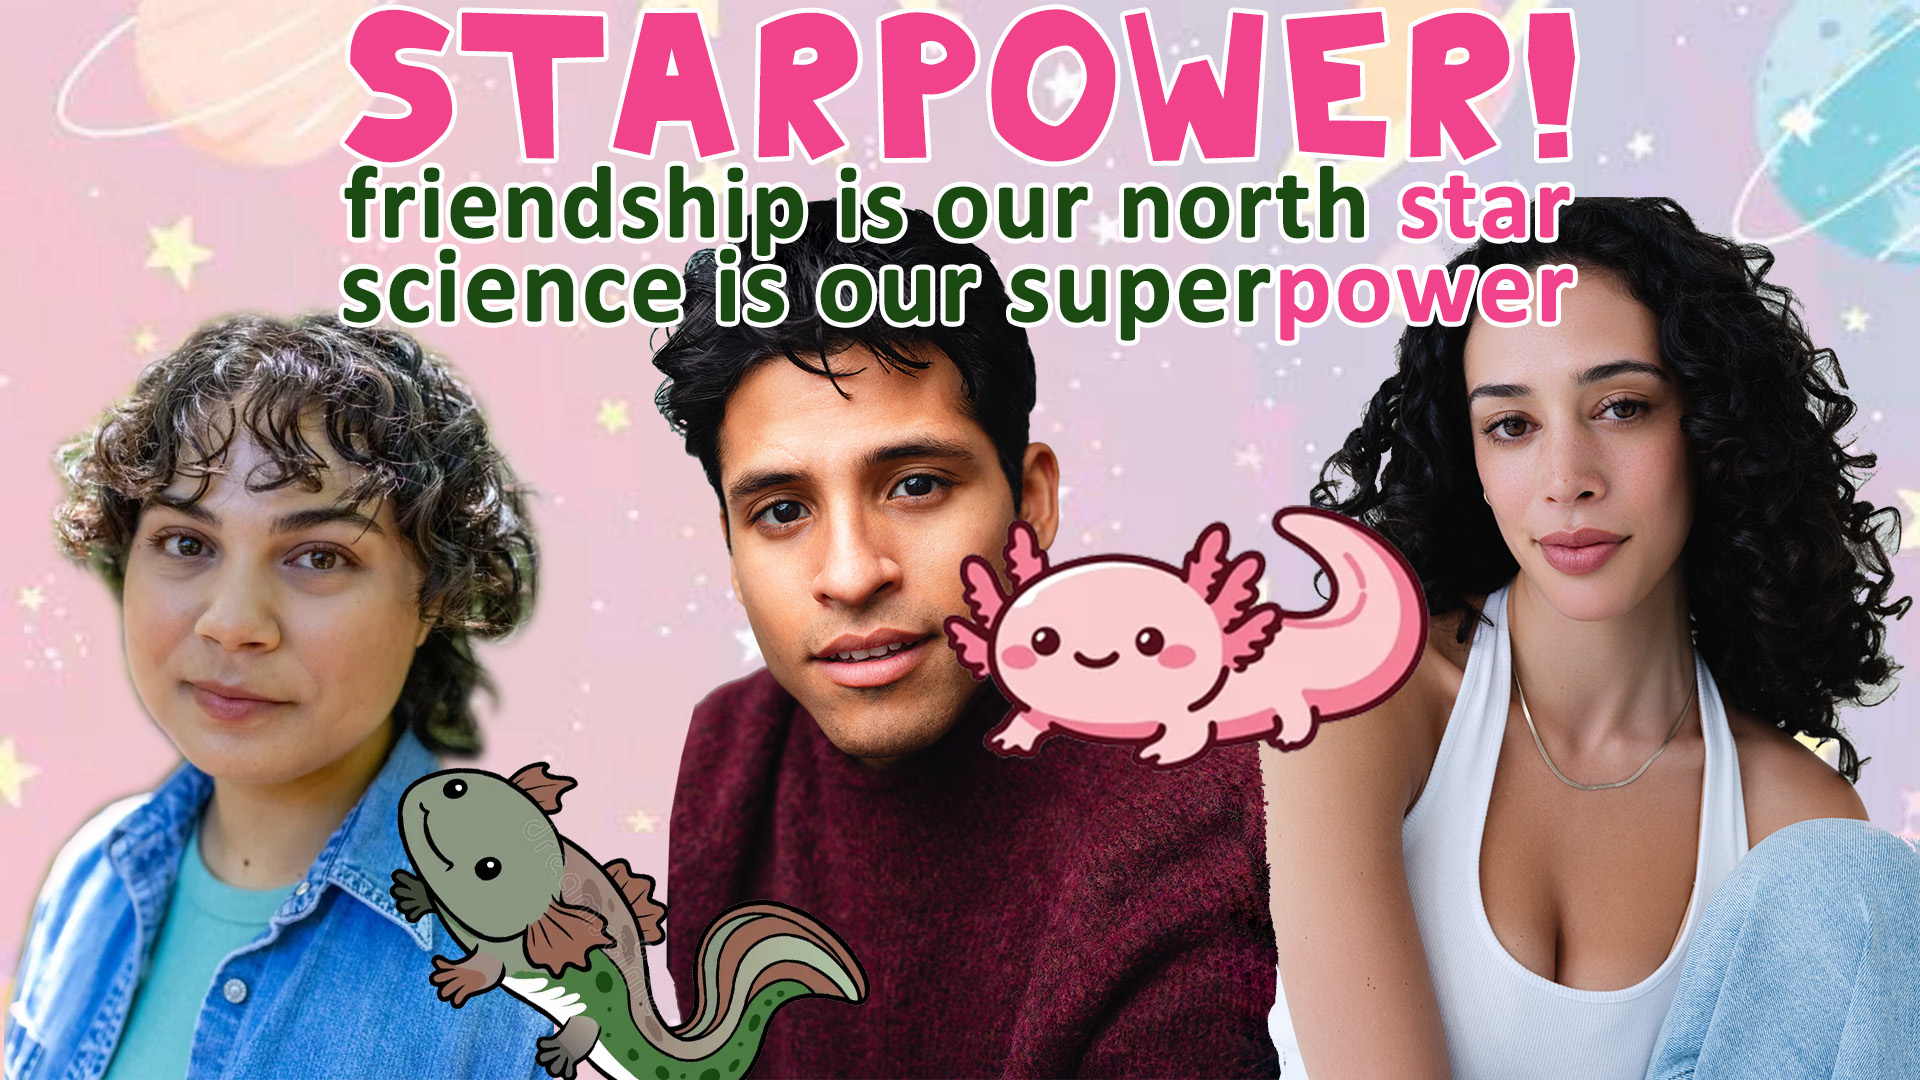
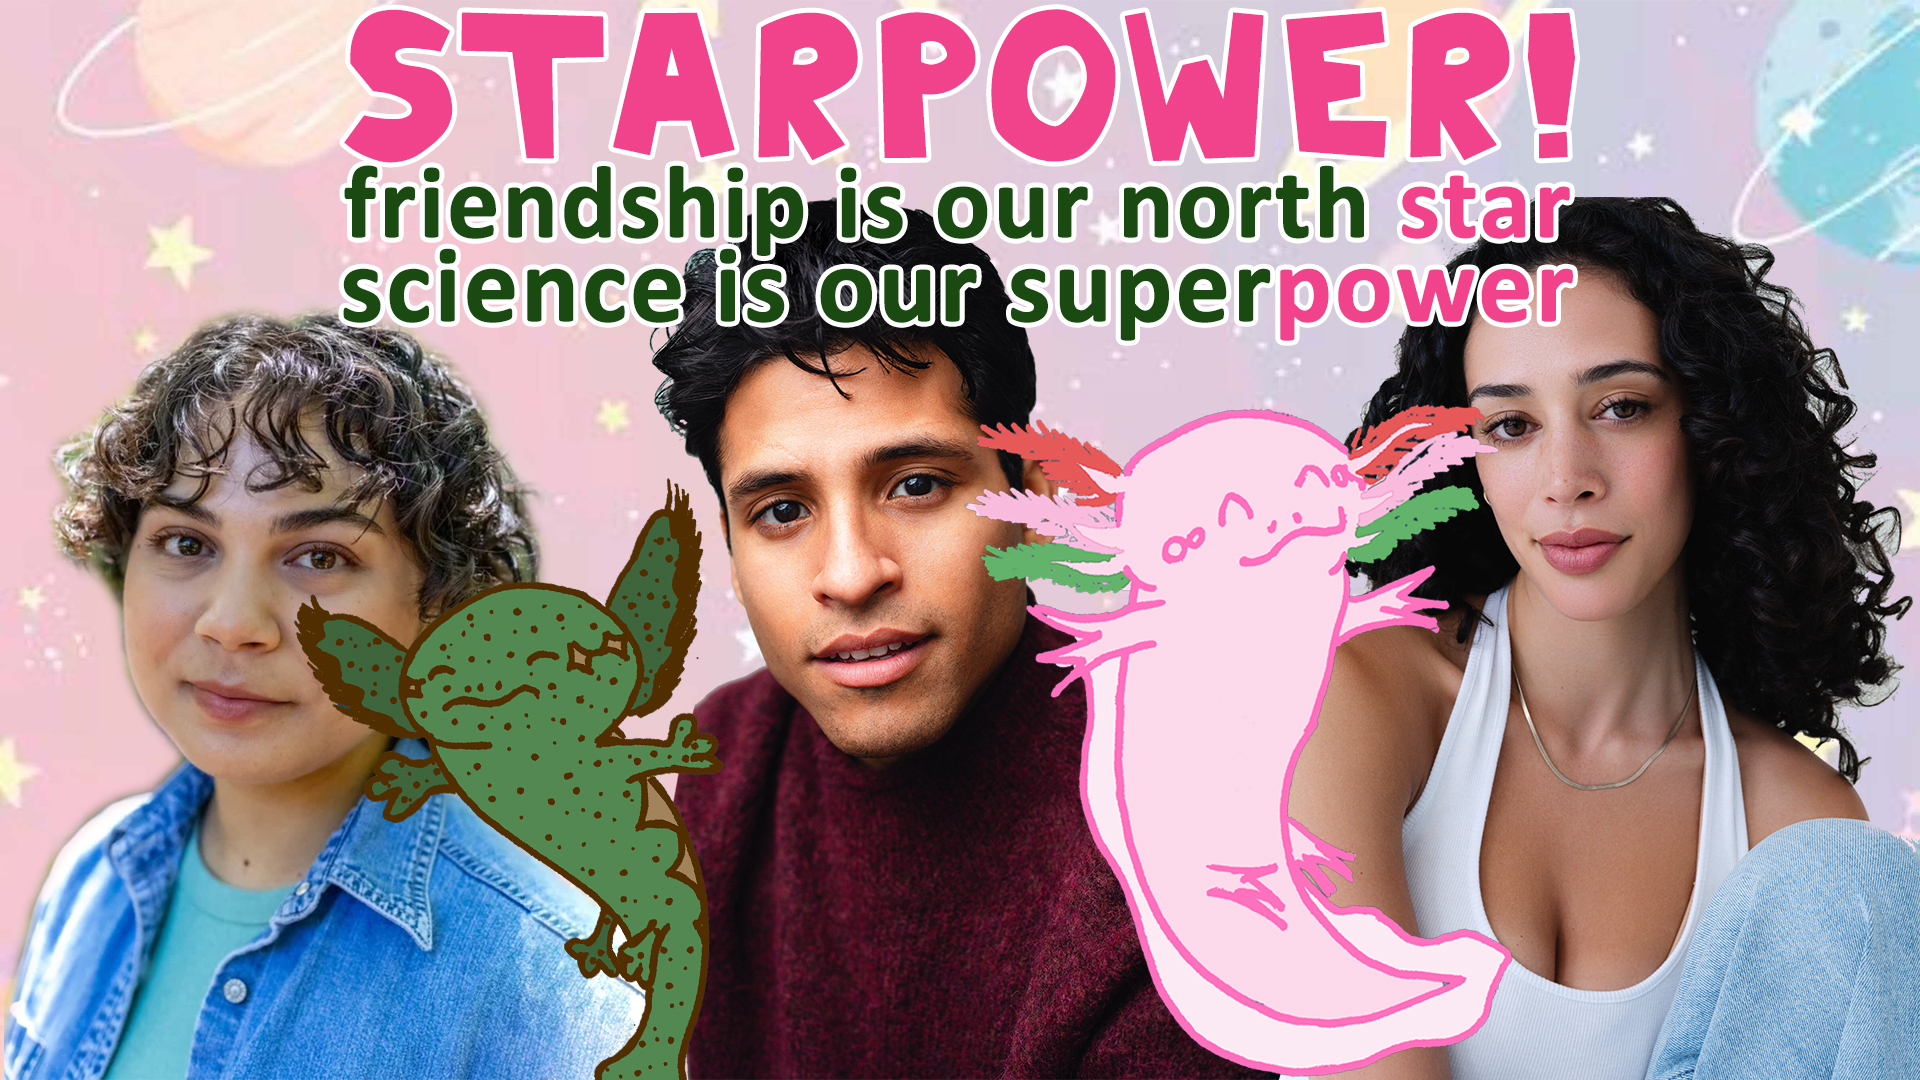
2026-4-19

Changed region(s): [[0.4688, 0.3667, 0.7812, 1.0], [0.1562, 0.4583, 0.4688, 1.0]]

diff --git a/scientists/david-quang-pham/index.html b/scientists/david-quang-pham/index.html
@@ -36,7 +36,6 @@
 <link rel="dns-prefetch" href="//cdn-images.mailchimp.com">
 <link rel="stylesheet" id="wp-block-library-css" href="https://www.science.studio/css/style.min.css" type="text/css" media="all">
 <style id="classic-theme-styles-inline-css" type="text/css">
-/*! This file is auto-generated */
 .wp-block-button__link{color:#fff;background-color:#32373c;border-radius:9999px;box-shadow:none;text-decoration:none;padding:calc(.667em + 2px) calc(1.333em + 2px);font-size:1.125em}.wp-block-file__button{background:#32373c;color:#fff;text-decoration:none}
 </style>
 <style id="global-styles-inline-css" type="text/css">
@@ -138,9 +137,8 @@ function OptanonWrapper() { }
 <li id="menu-item-5539" class="menu-item menu-item-type-post_type menu-item-object-page menu-item-5539"><a href="https://www.science.studio/about/">About</a></li>
 <li id="menu-item-5422" class="menu-item menu-item-type-custom menu-item-object-custom menu-item-5422"><a href="https://shop.science.studio/?utm_source=science.studio&utm_medium=referral&utm_campaign=&utm_content=nav">Shop</a></li>
 </ul></nav>
-                
-                
             </div>
+
 						<div class="header-right">
 							<nav class="social-nav-container"><ul id="menu-social-nav" class="menu"><li id="menu-item-5425" class="icon instagram menu-item menu-item-type-custom menu-item-object-custom menu-item-5425"><a target="_blank" href="https://www.instagram.com/ScienceTheatre/">Instagram</a></li>
 <li id="menu-item-7752" class="icon tiktok menu-item menu-item-type-custom menu-item-object-custom menu-item-7752"><a target="_blank" href="https://www.tiktok.com/@sciencetheatre">Tik Tok</a></li>
@@ -300,7 +298,7 @@ function OptanonWrapper() { }
               <strong>The Galaxy Family 💫</strong>
                                           <ul class="aboutContact-itemTypes">
                                 <li>
-											Singularity, their six kids (HD, Cartwheel, Whirlpool, Triangulum, Andromeda, Milky Way), and their dog Gravity try to save the Universe after the Big Bang.</li>
+											Singularity, their six kids (HD, Cartwheel, Whirlpool, Triangulum, Andromeda, Milky Way), and their dog Gravity try to save the Universe after the Big Bang unravels monsters ready to consume them.</li>
 											  <li>____________________________</li><li></li>
 											<li><b><a href="https://www.thegalaxyfamily.com/" target="_blank">Website</a></b></li>
 												<li>📖<a href="https://www.thegalaxyfamily.com/bible" target="_blank">Story Bible</a></li>
@@ -347,9 +345,9 @@ function OptanonWrapper() { }
               <strong>Photosynthesis 🌱</strong>
                                           <ul class="aboutContact-itemTypes">
                                 <li>
-											In the heart of Dirty City, a photogenic young herb and his pear best friend navigate the musical misadventures hidden underneath the soil while keeping his mother’s salon, Salontro, from getting uprooted.</li>
+											In the heart of Dirty City, a picture-perfect young herb and his pear best friend navigate the musical misadventures hidden underneath the soil while keeping his mother’s salon, Salontro, from getting uprooted.</li>
 											  <li>___________________________</li><li></li>
-											<li><b><a href="https://www.turnovermusical.com/" target="_blank">Website</a></b></li>
+											<li><b><a href="https://www.photosynthesiscartoon.com/" target="_blank">Website</a></b></li>
 											<li>🎵<a href="https://www.photosynthesiscartoon.com/theme" target="_blank">Theme Song</a></li>
 											<li>📖<a href="https://www.photosynthesiscartoon.com/bible" target="_blank">Story Bible</a>
 											<li>📖<a href="https://www.photosynthesiscartoon.com/deck" target="_blank">Pitch Deck</a>
@@ -409,8 +407,9 @@ function OptanonWrapper() { }
                                 <li>
 											<li>Stardust is an interactive preschool show where a live-action host (Clay) and an animated mudpuppy salamander named Stardust visit worlds in the Milky Way to help the locals learn science.</li>
 											  <li>___________________________</li><li></li>
-											<li>StarPower! is an interactive preschool show where a live-action host (Aurora), a sidekick (Ray), an animated mudpuppy salamander (Stardust), and an animated axolotl salamander (StarPower) explore the universe to help the locals learn science and save worlds in danger.</li>
+											<li>An interactive science show where a live-action host (Aurora), a sidekick (Ray), and two animated Salamander Sisters (StarPower and Stardust) explore the universe to help the locals learn science and save worlds in danger.</li>
 											  <li>___________________________</li><li></li>
+											<li><b><a href="https://www.solidliquidandgas.com/starpower" target="_blank">Website</a></b></li>
 												<li>📖<a href="https://www.solidliquidandgas.com/bible" target="_blank">Story Bible</a></li>
 												<li>📖<a href="https://www.solidliquidandgas.com/starpower/deck" target="_blank">Pitch Deck</a></li>
 											  <li>____________________________</li><li></li>
@@ -461,7 +460,7 @@ function OptanonWrapper() { }
               <strong>The Sugarcoats 🧥🔥💧</strong>
                                           <ul class="aboutContact-itemTypes">
                                 <li>
-                                    		The fabulous adventures of superperformers Candy Aura, Spicy Flamboy, Rocky Gorgeous, Milky Monsoon, Poppy Polare, and their cat Sugaroo. They tour the world in their mobile library Wonder Wagon, stopping natural disasters by entertaining unruly elementals and chasing out the Windbreakers.</li>
+                                    		The fabulous adventures of superperformers Candy Aura, Spicy Flamboy, Rocky Gorgeous, Milky Monsoon, Poppy Polare, and their cat Sugaroo. They tour the world in their mobile library Wonder Wagon, stopping natural disasters by entertaining unruly elementals, fighting the Blazers, and chasing out the Windbreakers.</li>
 											  <li>___________________________</li><li></li>
 											<li><b><a>TV Series</a></b></li>
                                   </li>

diff --git a/library/films/photosynthesis/index.html b/library/films/photosynthesis/index.html
@@ -452,7 +452,7 @@ function OptanonWrapper() { }
                                           <ul class="aboutContact-itemTypes">
 											  <img src="https://www.photosynthesiscartoon.com/plants/pyrus/pyrus.png">
                                 <li>
-											A free-spirited 13-year-old pear with a flair for troublemaking, often retreating to their pet bee Bombus. After being suspended from Terra Hill Conservatory, their mother sends them to Malus's for the summer. They soon find an unexpected, fruitful friend in the little herb next door, Parsley, who helps them turn a new leaf.</li>
+											A free-spirited 13-year-old pear with a flair for troublemaking, often retreating to their pet bee Bombus. After being suspended from Terra Hill Conservatory, their mother sends them to unty Malus's for the summer. They soon find an unexpected, fruitful friend in the little herb next door, Parsley, who helps them turn a new leaf.</li>
                                   </li>
                               </ul>
                           </div>
@@ -652,6 +652,16 @@ function OptanonWrapper() { }
           </li>
                   <li class="aboutContact-item">
                         <div class="aboutContact-itemContent">
+              <strong>Verbena</strong>
+                                          <ul class="aboutContact-itemTypes">
+                                <li>
+											A sleek, purple-petaled plant with the poise of a reality TV producer. She often wears a sharp, leaf-fiber blazer and oversized shades.</li>
+                                  </li>
+                              </ul>
+                          </div>
+          </li>
+                  <li class="aboutContact-item">
+                        <div class="aboutContact-itemContent">
               <strong>Salix Willow</strong>
                                           <ul class="aboutContact-itemTypes">
                                 <li>
@@ -788,7 +798,7 @@ function OptanonWrapper() { }
           </li>
                   <li class="aboutContact-item">
                         <div class="aboutContact-itemContent">
-              <strong>Adansonia</strong>
+              <strong>Banyan</strong>
                                           <ul class="aboutContact-itemTypes">
                                 <li>
 											Based on India.</li>

diff --git a/library/films/starpower/index.html b/library/films/starpower/index.html
@@ -211,8 +211,7 @@ function OptanonWrapper() { }
       <div class="aboutOpening-wrap">
         <div class="aboutOpening-content">
 			<h3>Friendship is our north star. Science is our superpower.</h3>
-			<p>An interactive science show where a live-action host (Aurora), a sidekick (Ray), and two animated Salamander Sisters (StarPower and Stardust) explore the universe to help the locals learn science and save worlds in danger. The show centers on empowering children, treating them as intelligent, and encouraging active participation through pauses that allow viewers to solve problems.
-</p>
+			<p>An interactive science show where a live-action host (Aurora), a sidekick (Ray), and two animated Salamander Sisters (StarPower and Stardust) explore the universe to help the locals learn science and save worlds in danger. The show centers on empowering children, treating them as intelligent, and encouraging active participation through pauses that allow viewers to solve problems.</p>
         <h3>-|||-<a href="https://www.solidliquidandgas.com/starpower/deck" target="_blank">DECK</a>-|||-</h3>
         </div>
                 <div class="aboutOpening-image">
